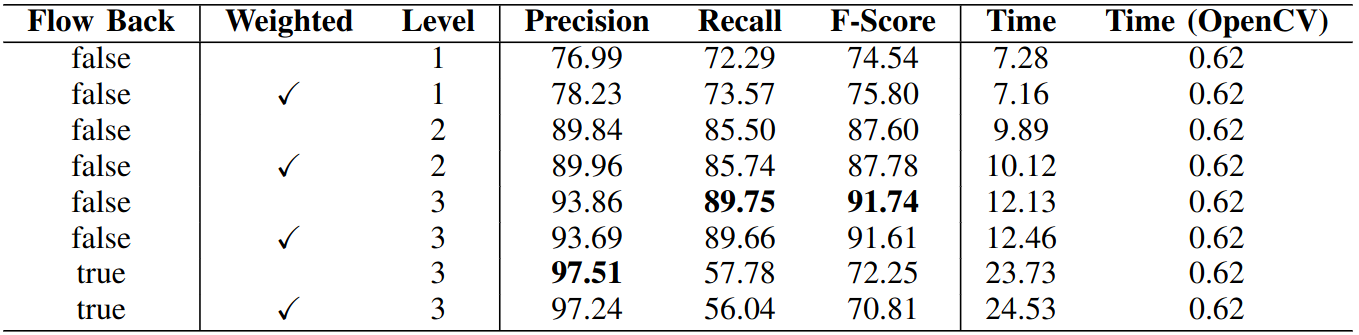
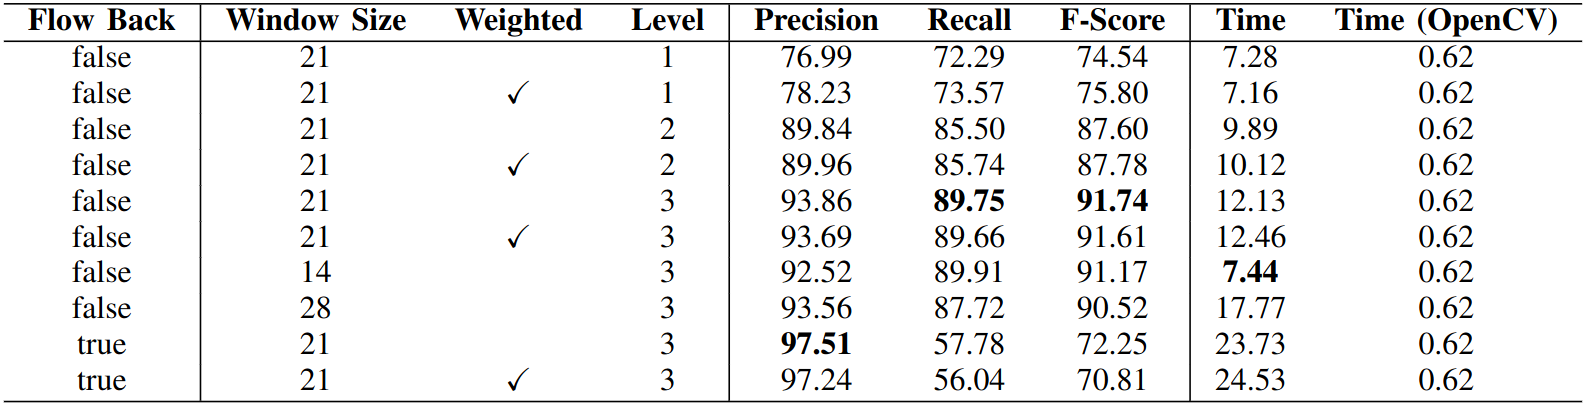
add exp

diff --git a/node/optlk_benchmark.cpp b/node/optlk_benchmark.cpp
@@ -32,11 +32,11 @@ int main() {
     std::vector<uchar> status;
     std::vector<float> err;
     std::chrono::steady_clock::time_point t1 = std::chrono::steady_clock::now();
-    elec5660::calcOpticalFlowPyrLK(gray1, gray2, keypoints1, keypoints2, status, err, cv::Size(21, 21), MAX_LEVEL);
+    elec5660::calcOpticalFlowPyrLK(gray1, gray2, keypoints1, keypoints2, status, err, cv::Size(WINDOW_SIZE, WINDOW_SIZE), MAX_LEVEL);
     if (FLOW_BACK) {
         std::vector<cv::Point2f> reversePts;
         std::vector<uchar> reverseStatus;
-        elec5660::calcOpticalFlowPyrLK(gray2, gray1, keypoints2, reversePts, reverseStatus, err, cv::Size(21, 21),
+        elec5660::calcOpticalFlowPyrLK(gray2, gray1, keypoints2, reversePts, reverseStatus, err, cv::Size(WINDOW_SIZE, WINDOW_SIZE),
                                        MAX_LEVEL);
         for (size_t i = 0; i < status.size(); i++) {
             if (status[i] && reverseStatus[i] && distance(reversePts[i], keypoints1[i]) <= D_THRESHOLD)

diff --git a/src/parameters.cpp b/src/parameters.cpp
@@ -9,6 +9,7 @@ bool WEIGHTED = false;
 int MAX_LEVEL = 3;
 bool USE_OPENCV = true;
 double D_THRESHOLD = 0.5;
+int WINDOW_SIZE = 21;
 
 void readParameters(std::string config_file) {
     FILE *fh = fopen(config_file.c_str(), "r");
@@ -26,6 +27,7 @@ void readParameters(std::string config_file) {
     fsSettings["affine"] >> AFFINE;
     fsSettings["weighted"] >> WEIGHTED;
     fsSettings["max_level"] >> MAX_LEVEL;
+    fsSettings["window_size"] >> WINDOW_SIZE;
 
     MAX_CNT = fsSettings["max_cnt"];
     MIN_DIST = fsSettings["min_dist"];
@@ -40,6 +42,7 @@ void readParameters(std::string config_file) {
     printf("MIN DIST: %d\n", MIN_DIST);
     printf("AFFINE: %d\n", AFFINE);
     printf("WEIGHTED: %d\n", WEIGHTED);
+    printf("WINDOW SIZE: %d\n", WINDOW_SIZE);
     printf("MAX LEVEL: %d\n", MAX_LEVEL);
 
     printf("VO parameters: \n");

diff --git a/include/parameters.h b/include/parameters.h
@@ -15,5 +15,6 @@ extern bool WEIGHTED;
 extern int MAX_LEVEL;
 extern bool USE_OPENCV;
 extern double D_THRESHOLD;
+extern int WINDOW_SIZE;
 
 void readParameters(std::string config_file);
